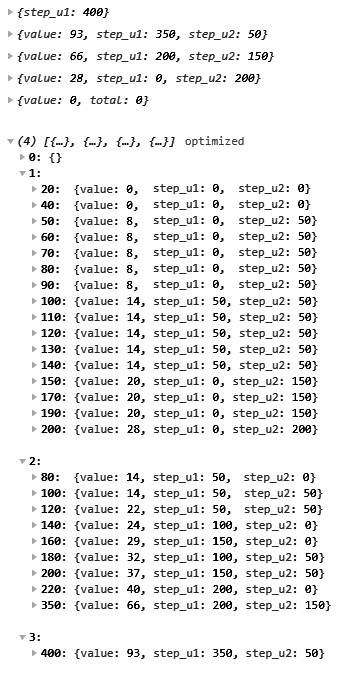
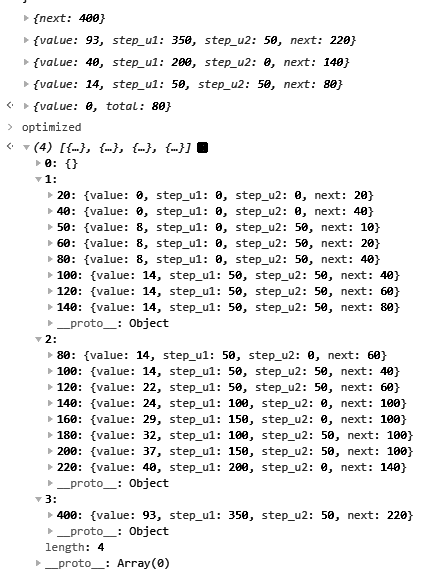
refactor

diff --git a/main.js b/main.js
@@ -42,7 +42,7 @@ for(let i = 1; i < 4; i++)
                 }
             }
     
-            optimized[i][x] = {value : max_val, step_u1, step_u2};
+            optimized[i][x] = {value : max_val, step_u1, step_u2, next : x - step_u1 - step_u2 + c1(step_u1) + c2(step_u2)};
         }
         
         return optimized[i][x];
@@ -53,9 +53,9 @@ for(let i = 1; i < 4; i++)
 S[1](50)
 S[1](100)
 
-var node = {step_u1:400};
+var node = {next:400};
 for(var i = 3; i >= 0; i--)
 {
     console.log(node)
-    node = S[i](node.step_u1);
+    node = S[i](node.next);
 }
